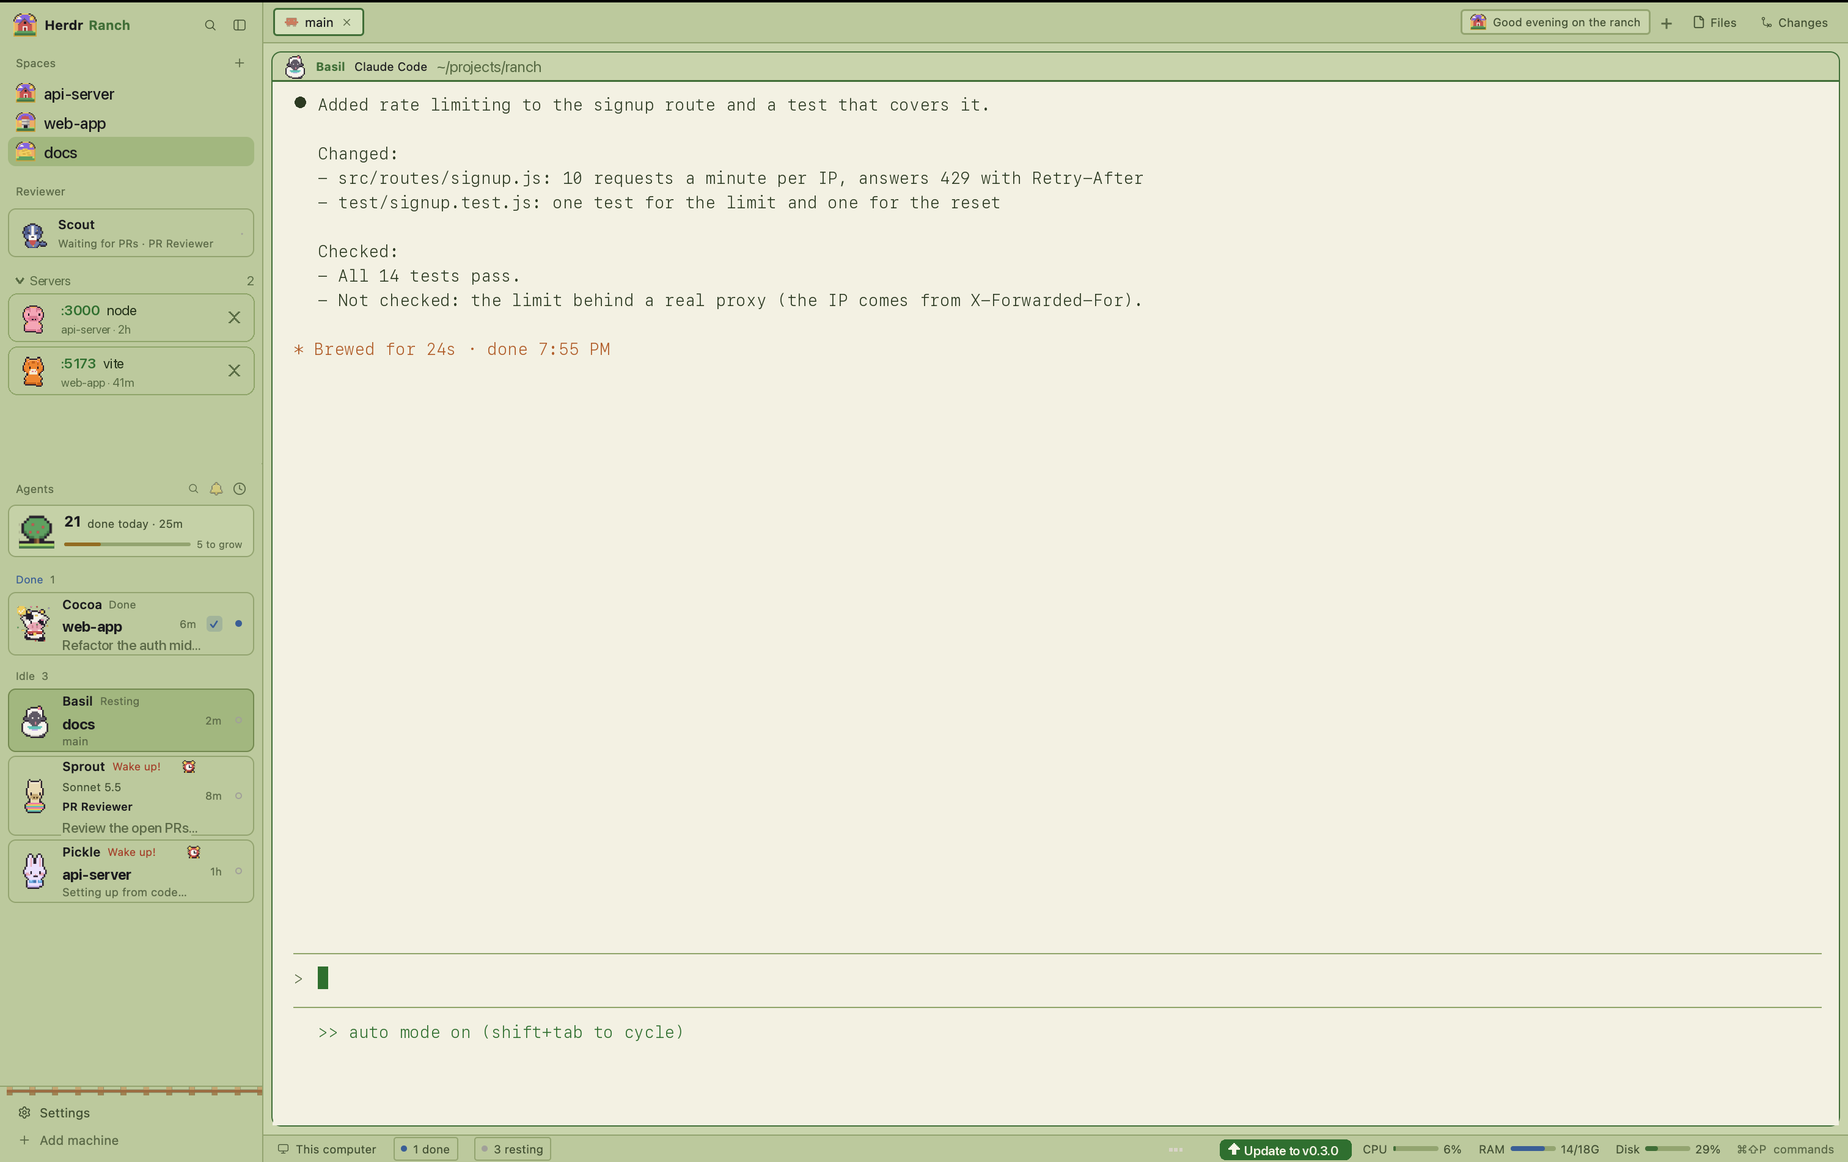
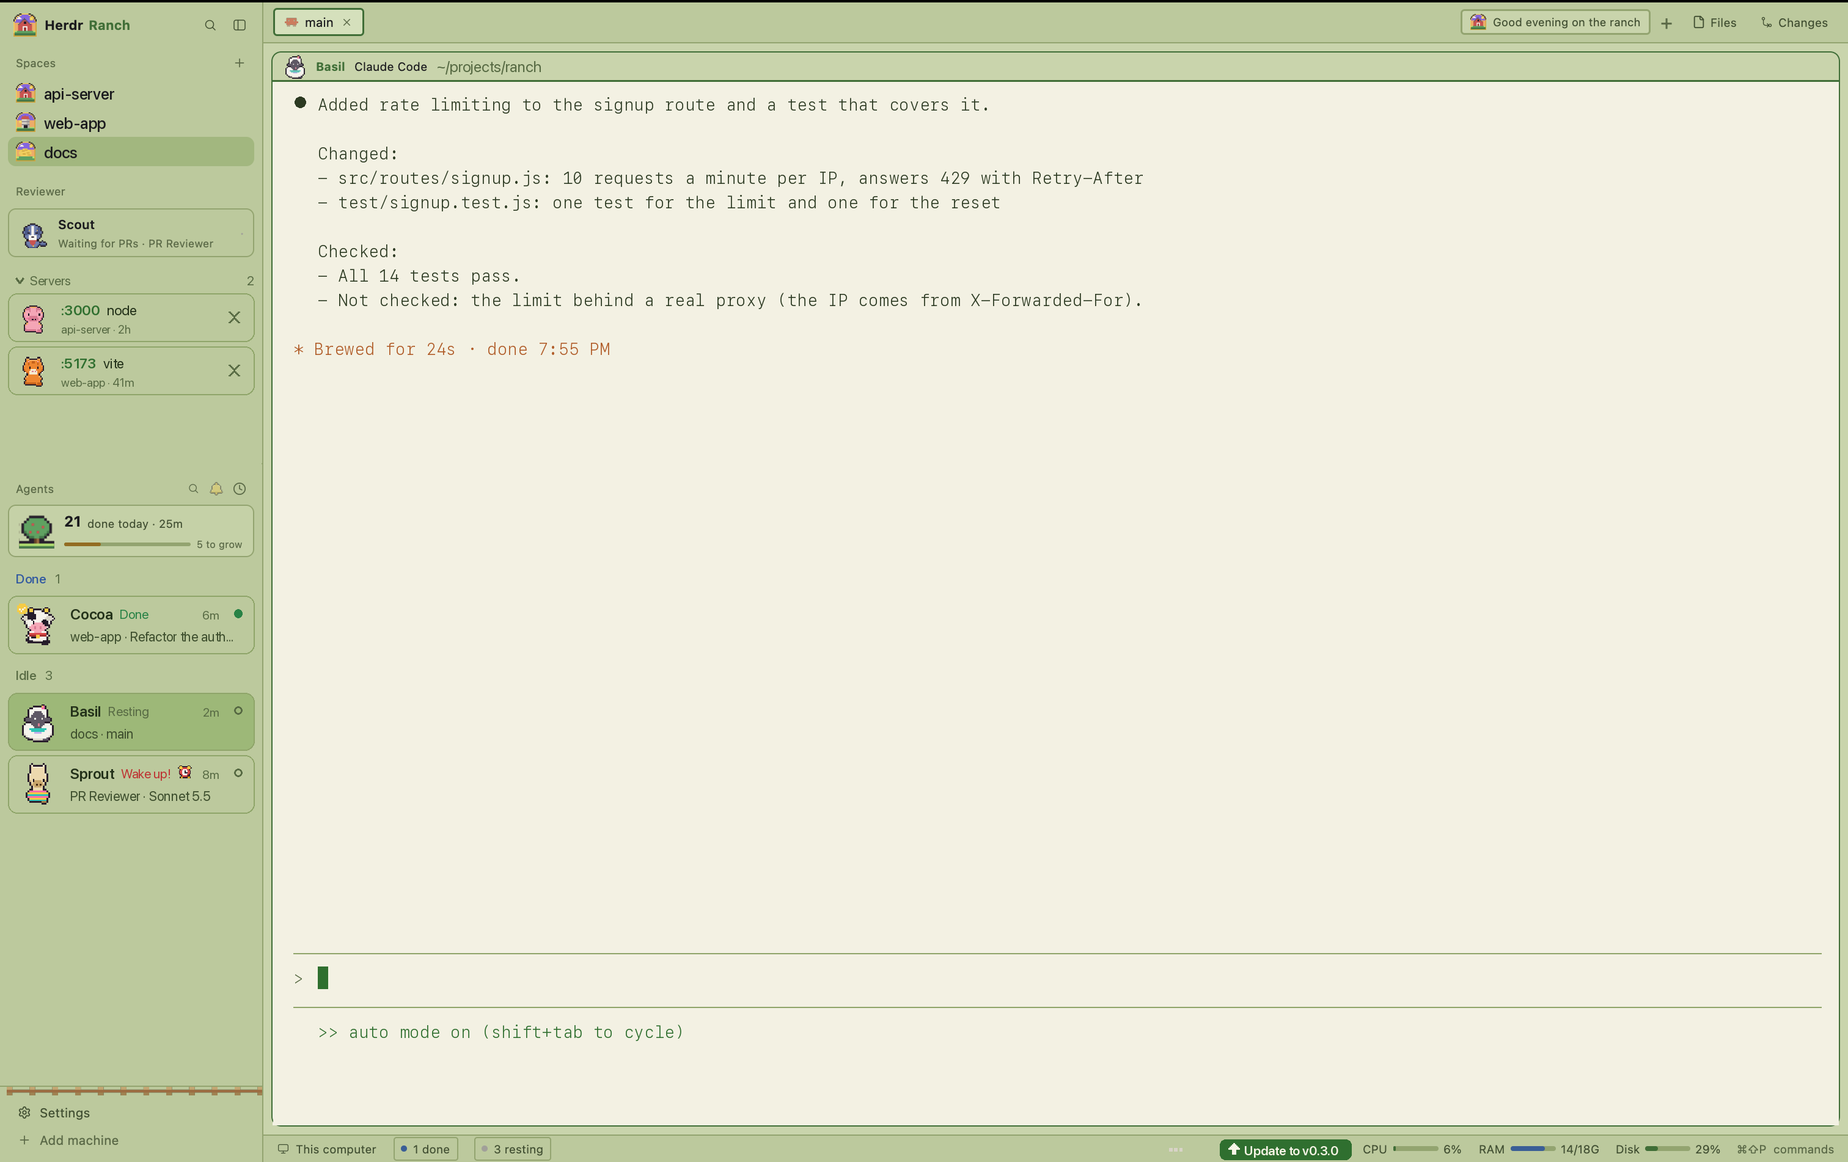
feat(flock): agent cards the same size as the server cards, and the real dark screenshot back (#21)

Changed region(s): [[0.0, 0.4963, 0.1243, 0.7755]]

diff --git a/mods/flock/main.js b/mods/flock/main.js
@@ -107,8 +107,8 @@ const dayKey = () => new Date().toISOString().slice(0, 10);
 const CTX_WARN = 50;
 const CTX_DANGER = 80;
 const CTX_BAR_HEIGHT = 3;
-const CARD_LINE_HEIGHT = 17;
-const CARD_PADDING_Y = 14;
+// Every agent card is this tall; the Servers cards (meadows) match.
+const CARD_HEIGHT = 50;
 const STEP_PERIOD = 800;
 // Loops only ease; swinging far past 0..1 makes the opacity cross over in about one frame, a crisp swap.
 const SWAP_LOW = -6;
@@ -291,6 +291,10 @@ export default class Agents extends View {
       .child(div().flex_1().h(CTX_BAR_HEIGHT).rounded(2).bg(t.border)
         .child(div().h_full().w(`${pct}%`).rounded(2).bg(color)))
       .child(div().w(48).flex_none().text_size(10).text_color(t.dim).child(text));
+  }
+
+  miniBar(t, pct, color) {
+    return div().flex_1().h(3).rounded(2).bg(t.border).child(div().h_full().w(`${pct}%`).rounded(2).bg(color));
   }
 
   // Start counting spend from now: what each session has cost so far becomes its zero.
@@ -889,11 +893,16 @@ export default class Agents extends View {
       const kidsList = subs.map((x) => kidStatus(x.t, this.listed));
       const made = this.summary[a.address];
       const change = made && a.status !== "working" && now - made.at < SUMMARY_FRESH ? made.text : null;
-      const lineCount = [hero, stat?.model, place, session, hasCtx, hasQuota, change].filter(Boolean).length;
+      // One size for every card (the Servers cards are the same): a title line, a detail line, two thin bars under them.
+      const title = hero ? names[a.address] ?? titleCase(hero) : place || session || label(a);
+      const detailParts = change ? [] : [hero ? place : null, stat?.model, stat?.cost != null ? `$${stat.cost.toFixed(2)}` : null, hero ? session : place ? session : null].filter(Boolean);
+      const line2 = change ? `\u270e ${change}` : detailParts.join(" \u00b7 ");
+      const hint = [hero ? names[a.address] ?? titleCase(hero) : null, place, session, stat?.model, hasCtx ? `HP ${stat.ctx}%` : null, hasQuota ? `SP ${Math.max(0, 100 - stat.quota)}% left` : null].filter(Boolean).join(" \u00b7 ");
       return h_flex()
         .id(`ag-${a.address}`)
         .px(8)
-        .h(CARD_PADDING_Y + Math.max(lineCount * CARD_LINE_HEIGHT, SPRITE_SIZE))
+        .h(CARD_HEIGHT)
+        .relative()
         .my(2)
         .flex_none()
         .rounded(8)
@@ -910,32 +919,31 @@ export default class Agents extends View {
           cx.notify();
         })
         .on_click(() => run("pane.focus", { pane: a.pane }))
+        .when(Boolean(hint), (el) => el.tooltip(hint))
         .when(Boolean(sprite), el => el.child(div().id(`agent-fold-${a.address}`)
           .when(subs.length > 0, el => el.on_click((_e, cx) => {
             cx.stop_propagation();
             this.folded.has(a.address) ? this.folded.delete(a.address) : this.folded.add(a.address);
             cx.notify();
           })).child(sprite)))
-        .child(v_flex().flex_1().min_w(0).gap(1)
-          .when(Boolean(hero), el => el.child(h_flex().min_w(0).gap(6).items_center()
+        .child(v_flex().flex_1().min_w(0).gap(2).pb(hasCtx || hasQuota ? 5 : 0)
+          .child(h_flex().min_w(0).gap(6).items_center()
             .child(div().id(`name-${a.address}`).min_w(0).truncate().font_semibold().text_color(t.foreground)
-              .cursor_pointer().hover((s) => s.text_color(t.accent)).tooltip("Click to rename")
-              .on_click((_e, cx) => {
-                cx.stop_propagation();
-                openOverlay({ mod: "flock", kind: "popup", width: 320, height: 175, props: { rename: a.address, value: names[a.address] ?? "", animal: hero } });
-              })
-              .child(names[a.address] ?? titleCase(hero ?? "")))
-            .child(div().flex_1().min_w(0).truncate().text_size(11).text_color(life === "alarm" ? t.blocked : t.dim).child(moodOf(a.status, life)))
+              .when(Boolean(hero), (el) => el.cursor_pointer().hover((s) => s.text_color(t.accent)).tooltip("Click to rename")
+                .on_click((_e, cx) => {
+                  cx.stop_propagation();
+                  openOverlay({ mod: "flock", kind: "popup", width: 320, height: 175, props: { rename: a.address, value: names[a.address] ?? "", animal: hero } });
+                }))
+              .child(title))
+            .when(Boolean(hero), (el) => el.child(div().flex_1().min_w(0).truncate().text_size(11).text_color(life === "alarm" ? t.blocked : t.dim).child(moodOf(a.status, life))))
             .when(life === "alarm", (d) => d.child(alarmClock()))
             .when(kidsList.length > 0 && Boolean(hero), (d) => d.child(this.babies(variants[a.address] ? `${hero}-alt` : hero, kidsList)))
-            .when(a.status === "working", (d) => d.child(workingDots(t)))))
-          .child(v_flex().min_w(0).gap(1).text_size(hero ? 11.5 : 13)
-            .when(Boolean(stat?.model), el => el.child(div().min_w(0).truncate().text_color(idle || hero ? t.muted : t.foreground).child(stat.cost != null ? `${stat.model} · $${stat.cost.toFixed(2)}` : stat.model)))
-            .when(Boolean(place), el => el.child(div().min_w(0).truncate().font_semibold().text_color(t.foreground).child(place)))
-            .when(Boolean(session), el => el.child(div().min_w(0).truncate().text_color(t.dim).child(session)))
-            .when(Boolean(change), el => el.child(div().min_w(0).truncate().text_color(t.accent).child(`✎ ${change}`))))
-          .when(hasCtx, el => el.child(this.ctxBar(t, stat.ctx)))
-          .when(hasQuota, el => el.child(this.spBar(t, stat.quota))))
+            .when(a.status === "working", (d) => d.child(workingDots(t))))
+          .when(Boolean(line2), el => el.child(div().min_w(0).truncate().text_size(11.5).text_color(change ? t.accent : idle || hero ? t.muted : t.dim).child(line2))))
+        // HP (context used) and SP (5-hour quota left): two thin bars along the bottom, hover for the numbers.
+        .when(hasCtx || hasQuota, el => el.child(h_flex().absolute().left(SPRITE_SIZE + 20).right(10).bottom(5).gap(6)
+          .when(hasCtx, (b) => b.child(this.miniBar(t, stat.ctx, stat.ctx >= CTX_DANGER ? t.blocked : stat.ctx >= CTX_WARN ? t.done : t.working)))
+          .when(hasQuota, (b) => b.child(this.miniBar(t, Math.max(0, 100 - stat.quota), 100 - stat.quota <= 10 ? t.blocked : 100 - stat.quota <= 30 ? t.done : t.accent)))))
         .when(Boolean(machine), el => el.child(div().text_size(10).text_color(t.dim).child(machine)))
         .when(subs.length > 0, el => el.child(fold(a, subs)))
         .when(this.hovered === a.address && Boolean(hero) && list.length > 1, el => el.child(div().id(`handoff-${a.address}`)

diff --git a/mods/meadows/main.js b/mods/meadows/main.js
@@ -779,7 +779,7 @@ export default class Spaces extends View {
   serversSection(t) {
     const critters = this.critters();
     const folded = this.sectionsFolded.has("servers");
-    const card = (id, red) => h_flex().id(id).mx(8).my(2).px(8).h(44).gap(9).items_center().rounded(8).border(1).border_color(red ? t.blocked : t.border);
+    const card = (id, red) => h_flex().id(id).mx(8).my(2).px(8).h(50).gap(9).items_center().rounded(8).border(1).border_color(red ? t.blocked : t.border);
     const goneRows = this.gone.map((g) => card(`gone-${g.pid}`, true)
       .child(critterPicture(critters[g.port] ?? CRITTERS[0], "gone"))
       .child(v_flex().flex_1().min_w(0)

diff --git a/tools/sections_picture.py b/tools/sections_picture.py
@@ -18,10 +18,10 @@ SF = "/System/Library/Fonts/SFNS.ttf"
 THEMES = {
     "dark": dict(fg=(244, 234, 242), muted=(209, 179, 202), dim=(185, 149, 176), border=(143, 79, 128),
                  gold=(242, 199, 68), on_gold=(51, 6, 43), red=(255, 123, 123), green=(111, 207, 151),
-                 violet=(182, 156, 245), accent=(242, 199, 68)),
+                 violet=(182, 156, 245), accent=(242, 199, 68), blue=(110, 150, 230)),
     "light": dict(fg=(36, 50, 26), muted=(62, 79, 46), dim=(88, 107, 68), border=(143, 165, 106),
                   gold=(47, 111, 47), on_gold=(247, 245, 230), red=(190, 50, 50), green=(40, 130, 70),
-                  violet=(110, 80, 200), accent=(47, 111, 47)),
+                  violet=(110, 80, 200), accent=(47, 111, 47), blue=(50, 90, 160)),
 }
 
 
@@ -108,6 +108,31 @@ class Pen:
             self.text(x1 - 48, y + 15, "Restart", 11, c["gold"])
         else:
             self.paste(icon("ui-x", 10 * self.s, self.light), x1 - 22, y + 16)
+
+    def agent_card(self, x0, x1, y, animal, pose, name, mood, line2, age, selected=False, done=False):
+        """An agent card: the same size as a server card, a title line and a detail line."""
+        c, sc = self.c, self.s
+        if selected:
+            self.box(x0, y, x1, y + 50, 8, fill=(106, 37, 96) if not self.light else (157, 184, 120), outline=c["border"])
+        else:
+            self.box(x0, y, x1, y + 50, 8, outline=c["border"])
+        self.paste(critter(animal, pose, 36 * sc), x0 + 8, y + 7)
+        nw = self.text(x0 + 54, y + 8, name, 12.5, c["fg"], "Semibold")
+        mood_colour = c["red"] if mood == "Wake up!" else (c["green"] if mood == "Done" else c["dim"])
+        mw = self.text(x0 + 54 + nw + 6, y + 9, mood, 11, mood_colour)
+        if mood == "Wake up!":
+            self.paste(grid_image(sprites.alarm_grids()["alarm"], 12 * sc / 14), x0 + 54 + nw + 12 + mw, y + 8)
+        tw = self.d.textlength(age, font=font(10.5 * sc)) / sc
+        self.text(x1 - 30 - tw, y + 10, age, 10.5, c["dim"])
+        if done:
+            self.d.ellipse(((x1 - 17) * sc, (y + 12) * sc, (x1 - 10) * sc, (y + 19) * sc), fill=tuple(c["green"]))
+        else:
+            self.d.ellipse(((x1 - 17) * sc, (y + 12) * sc, (x1 - 10) * sc, (y + 19) * sc), outline=tuple(c["dim"]), width=max(1, round(1.4 * sc)))
+        room = x1 - 12 - (x0 + 54)
+        text = line2
+        while len(text) > 3 and self.d.textlength(text, font=font(11.5 * sc)) / sc > room:
+            text = text[:-2].rstrip("\u2026 ") + "\u2026"
+        self.text(x0 + 54, y + 28, text, 11.5, c["muted"])
 
     def worktrees(self, x0, x1, y, repo, rows):
         c = self.c
@@ -247,18 +272,40 @@ def update_toasts_picture(path, theme="dark", s=2):
     img.save(path)
 
 
+AGENTS = {
+    "dark": [("Idle", 3, [("sheep", "", "Basil", "Resting", "docs \u00b7 main", "<1m", True, False),
+                          ("rabbit", "", "Pickle", "Wake up!", "api-server \u00b7 Setting up from code md", "52m", False, False),
+                          ("cow", "", "Cocoa", "Wake up!", "web-app \u00b7 Refactor the auth middleware", "52m", False, False)])],
+    "light": [("Done", 1, [("cow", "-done", "Cocoa", "Done", "web-app \u00b7 Refactor the auth middleware", "6m", False, True)]),
+              ("Idle", 3, [("sheep", "", "Basil", "Resting", "docs \u00b7 main", "2m", True, False),
+                           ("llama", "", "Sprout", "Wake up!", "PR Reviewer \u00b7 Sonnet 5.5", "8m", False, False)])],
+}
+
+
 def patch_screenshot(path, theme):
     img = Image.open(path).convert("RGB")
     s = img.size[0] / 1600
     bg = img.getpixel((round(113 * s), round(392 * s)))  # blank sidebar, below where the cards go
-    ImageDraw.Draw(img).rectangle((0, round(230 * s), round(226 * s), round(405 * s)), fill=bg)
+    d = ImageDraw.Draw(img)
+    d.rectangle((0, round(230 * s), round(226 * s), round(405 * s)), fill=bg)
     pen = Pen(img, s, theme)
     pen.heading(0, 227, 236, "Servers", "2")
-    pen.server_card(7, 220, 254, 3000, "node", "api-server · 2h", "pig")
+    pen.server_card(7, 220, 254, 3000, "node", "api-server \u00b7 2h", "pig")
     pen.server_card(7, 220, 300, 5173, "vite", "web-app \u00b7 41m", "cat")
+    # the agent cards below the ranch board, redrawn at the new size (50 high, like the server cards)
+    d.rectangle((0, round(490 * s), round(226 * s), round(930 * s)), fill=bg)
+    y = 494
+    for label, count, cards in AGENTS[theme]:
+        pen.text(14, y, label, 11, pen.c["blue"] if label == "Done" and theme == "light" else pen.c["dim"], "Medium")
+        pen.text(14 + pen.d.textlength(label, font=font(11 * s, "Medium")) / s + 8, y, str(count), 11, pen.c["dim"])
+        y += 22
+        for animal, pose, name, mood, line2, age, selected, done in cards:
+            pen.agent_card(7, 220, y, animal, pose, name, mood, line2, age, selected, done)
+            y += 54
+        y += 8
     # the Update button as it looks when a newer release is out, left of CPU in the status bar
     bar = img.getpixel((round(1030 * s), round(996 * s)))
-    ImageDraw.Draw(img).rectangle((round(1000 * s), round(985 * s), round(1172 * s), round(1005 * s)), fill=bar)
+    d.rectangle((round(1000 * s), round(985 * s), round(1172 * s), round(1005 * s)), fill=bar)
     pen.paste(icon("ui-dots", 13 * s, pen.light), 1012, 990)
     update_pill(pen, 1170, 987)
     img.save(path)

diff --git a/RECIPE.md b/RECIPE.md
@@ -13,7 +13,7 @@ A row with no system title bar (`"titlebar": "none"`). The macOS window buttons 
 - **Sidebar, left, 268px** (min 44, max 480, not resizable), on `chrome`:
   - **Brand**, 46px: `ranch-chrome` (clone of `workspace-chrome`), a window drag area: a 24px barn emblem whose sky follows the clock (dawn 5-8, day 8-17, dusk 17-20, night) and "Herdr" in `foreground` with "Ranch" in `accent` (gold), both bold; search and sidebar-toggle buttons on the right.
   - **Spaces** (`meadows`), weight 2, min 90: each space shows a 20px arch-badge emblem (a gold frame, a two-tone sky, a strip of grass; a 20x20 picture drawn 1:1). Seven emblems in order: barn, silo, haystack, pond, windmill, orchard, fence. Each has four skies: dawn (pink over orange), day, dusk (violet over orange) and night (navy with stars and a moon); the file is `<name>.svg` for day and `<name>-dawn|dusk|night.svg`. A space where PR Reviewer's panel or watcher runs (a pane whose title is `pr-panel`, `PR Panel` or `PR watcher`, or whose terminal's foreground program is `.../pr-reviewer.../src/panel.js`, `watcher.js` or `doctor.js`, or the `pr-panel` command; its name doesn't matter, and a space that only has "PR Reviewer" in its name is an ordinary space) leaves this list and shows in a **Reviewer** section right under the last space: a header "Reviewer" and a 50px card (1px `border`, `selected` fill when active) with the 32px sheepdog Scout, "Scout" in semibold, and "<Reviewing|Needs you|Review done|Waiting for PRs> · <space name>"; a click selects the space.
-  - **Agents** (`flock`), weight 3, min 90. A header: "Agents" in `dim` and, on the right, a "✓ N in the barn" chip when animals are tucked away, a magnifier (find), a bell with a red count (needs-you list) and the sort icon. Under it the **ranch board** (54px card, 1px `border`, `raised` at 33%): a 36px tree, a bold count of tasks done today with "done today · <work time> · $<spend>", a 4px progress bar to the next tree stage with "N to grow" (or "someone's waiting" in `blocked` when a waiting agent has waited over 5 minutes, which also droops the tree), and, only when an agent's screen shows a quota, a 5-segment gauge "SP n%". Then one card per agent: a 36px animal (a 24x24 picture) beside a stack of lines. First line: the animal's name in semibold (click to rename), its status word (Working, Needs you, Resting, Napping, Wake up!, Done), up to three 14px baby animals when it has sub-agents (then "+N"), a ringing 14px alarm clock when it is on "Wake up!". Then the model and cost ("Haiku 5.5 · $0.01"), the space in semibold, the tab title in `dim`, an HP bar (context used) and an SP bar (5-hour quota left), and, after a task, "✎ 3 files +120 −30".
+  - **Agents** (`flock`), weight 3, min 90. A header: "Agents" in `dim` and, on the right, a "✓ N in the barn" chip when animals are tucked away, a magnifier (find), a bell with a red count (needs-you list) and the sort icon. Under it the **ranch board** (54px card, 1px `border`, `raised` at 33%): a 36px tree, a bold count of tasks done today with "done today · <work time> · $<spend>", a 4px progress bar to the next tree stage with "N to grow" (or "someone's waiting" in `blocked` when a waiting agent has waited over 5 minutes, which also droops the tree), and, only when an agent's screen shows a quota, a 5-segment gauge "SP n%". Then one card per agent, every one 50px tall like a server card (`CARD_HEIGHT`): a 36px animal (a 24x24 picture) beside two lines. First line: the animal's name in semibold (click to rename), its status word (Working, Needs you, Resting, Napping, Wake up!, Done), up to three 14px baby animals when it has sub-agents (then "+N"), a ringing 14px alarm clock when it is on "Wake up!". Second line (`dim`, one line, truncated): the space (when the list is not grouped under a space header), the model, the cost ("Haiku 5.5 · $0.01") and the tab title, or, after a task, "✎ 3 files +120 −30" in `accent`. The HP bar (context used) and SP bar (5-hour quota left) are two 3px bars side by side along the bottom edge (`miniBar`), and a tooltip on the card gives the full text and the numbers.
   - **Footer**, 78px: `ranch-chrome` with `{ "footer": true }`: a 9px pixel fence (wooden posts every 8 pixels and two rails, `mods/ranch-chrome/fence.svg`, 480x9 clipped to the width), then Settings and Add machine as 28px rows with a 2px `chrome` border that turns `accent` on hover.
 - **Work column**, right: tabs 42px (`ranch-tabs`, a clone of `tabs`, window drag area): square (radius 4) tabs with a 2px border, gold (`accent`) when active; a **ranch strip** before the `+` button (26px, 2px `border`, `canvas` fill): the 16px barn emblem of the hour and one line that changes every 4 seconds ("Good evening on the ranch", "Basil is working" or "N animals at work" or "N resting in the meadow", "N done today", "Scout is on watch"); when anyone needs you the strip shows only "<Name> needs you" (or "<Name> and N more need you") in `blocked`. Files and Changes are 2px-bordered boxes, gold when on. A body with padding 8 and gap 8 whose panes are cards (radius 10, 1px `border` that turns `accent` on focus, 30px `ranch-pane` header always shown: the agent's 26px animal and its name in bold gold, the program, the folder, then a spinner while working or a 2px-boxed "Needs you" (red) or "Done" (gold) chip; `canvas` fill and a 2px bottom border, `accent` on the focused pane; hover shows split, zoom and close); a Files/Changes stack (368px, min 280, max 900) that starts hidden.
 - **Status bar**, 28px (`flock-status`), on `chrome`: the machine, the branch, one colored dot and count per state that has agents ("N needs you", "N done", "N working", "N resting"), or "The ranch is quiet" with none; then three meters, `CPU`, `RAM`, `Disk`, each a label, a 46x5 bar and a value (`34%`, `12/18G`, `29%`); then the palette hint on the far right.

diff --git a/README.md b/README.md
@@ -81,7 +81,7 @@ Looking at an animal (focusing its pane) resets it to "Resting". Sub-agents show
 <p align="center"><img src="assets/ranch-settings.png" alt="The Ranch settings popup: four ticked or unticked boxes for Reviewer, Servers, Worktrees, and the version and update button" width="280"><br><sub>The sidebar settings. Drawn from the real colours; the names are made up.</sub></p>
 
 - **Ranch board.** Tasks done today, work time and spend, an apple tree that grows with your day (stages at 1, 4, 8, 13, 19 and 26 tasks, blossoms at 30, droops while someone has waited on you for over 5 minutes), and a gauge for the lowest 5-hour quota left.
-- **Agent cards.** The animal, its name (click to rename), its state, the model and cost, the space, the tab title, an **HP** bar (context used, green then yellow then red) and an **SP** bar (5-hour quota left), and after a task what it changed.
+- **Agent cards.** Every card is one size, the same as a server card. First line: the animal, its name (click to rename) and its state. Second line: the space, the model, the cost and the tab title, or, after a task, what it changed. An **HP** bar (context used, green then yellow then red) and an **SP** bar (5-hour quota left) are two thin lines along the bottom; hover a card for the numbers and the full title.
 - **Needs-you bell.** Rings with a red count in the Agents header. Click it for every waiting animal across all spaces, longest wait first; click a row to jump to that agent.
 - **Find.** The magnifier filters animals by name, animal, space, program or state; Enter jumps to the first match.
 

diff --git a/CHANGELOG.md b/CHANGELOG.md
@@ -2,6 +2,8 @@
 
 ## Unreleased
 
+- **Agent cards are one size, like the server cards** (50px): the animal, its name and state on the first line; the space, model, cost and tab title (or what a task changed) on the second; HP and SP as two thin bars along the bottom, with the numbers on hover.
+- **The Ranch Dusk picture is the real dark screenshot again** (`assets/preview-dusk.png` had been replaced by the banner by mistake), and the window pictures show the new agent cards.
 - **Update button fixed.** It tried to open a terminal tab in the selected space, which fails (`tab.new failed: cannot start a terminal`) when that space is on another machine. It now updates in the background on this computer, with toasts for "updating", "now vX.Y.Z" and any error.
 
 ## 0.2.1
